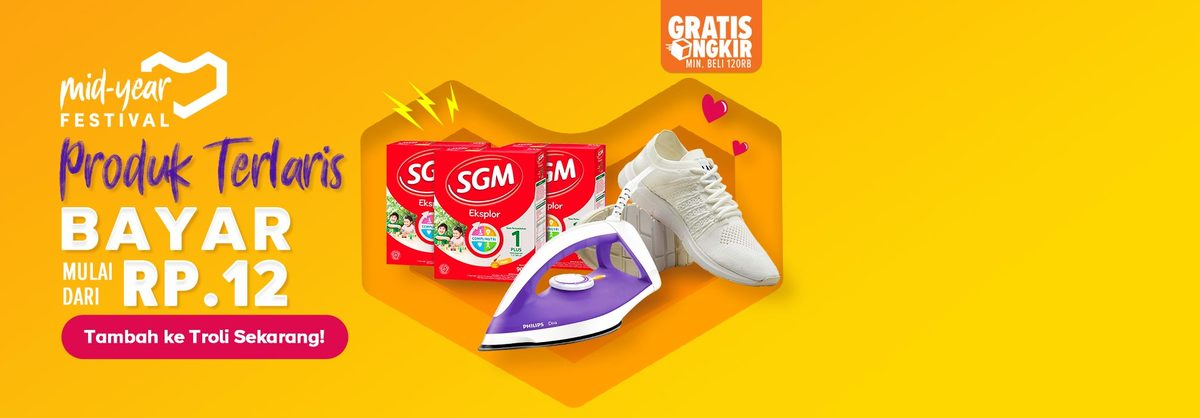
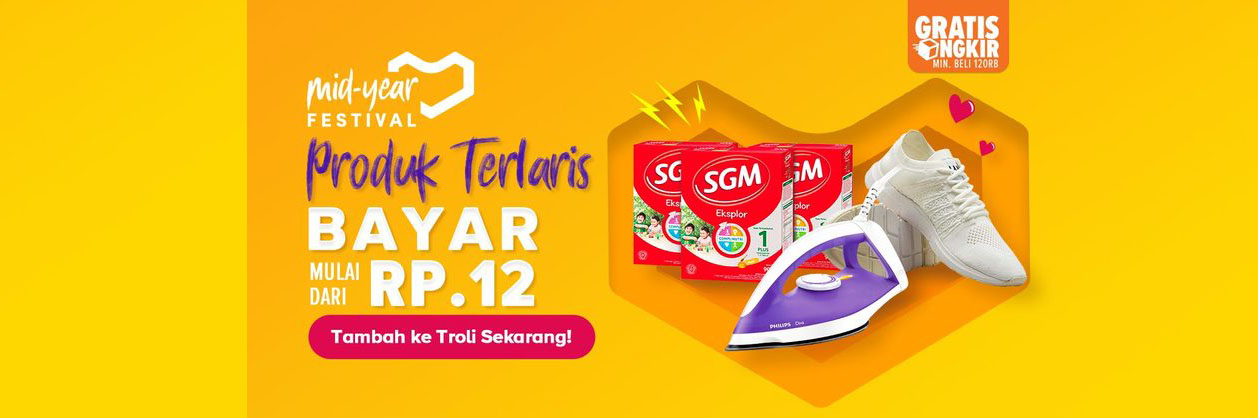
rubah header

diff --git a/src/assets/css/home.css b/src/assets/css/home.css
@@ -2,8 +2,9 @@ body{
     background-color: whitesmoke !important;
 }
 .carousel{
-    height: 380px;
+    height: 358px;
 }
+
 .body_promo{
     background-color: rgb(241, 150, 30);
     padding-bottom: 15px;
